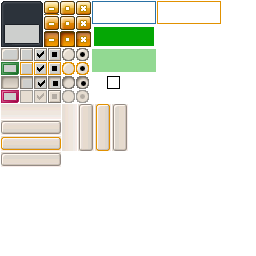
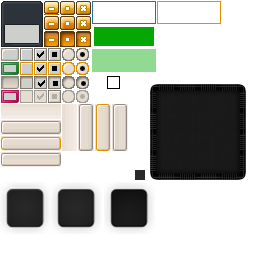
- 1.1.7 release, work on the flexible interface

Changed region(s): [[0.4062, 0.3125, 0.9688, 0.9062], [0.0, 0.7188, 0.1875, 0.9062], [0.2188, 0.7188, 0.375, 0.9062]]

diff --git a/Utopia/Utopia/GUI/Inventory/ContainerWindow.cs b/Utopia/Utopia/GUI/Inventory/ContainerWindow.cs
@@ -1,0 +1,209 @@
+using System;
+using System.Collections.Generic;
+using System.Drawing;
+using System.Linq;
+using System.Text;
+using S33M3CoreComponents.GUI.Nuclex;
+using S33M3CoreComponents.GUI.Nuclex.Controls.Desktop;
+using S33M3CoreComponents.Inputs;
+using S33M3Resources.Structs;
+using Utopia.Entities;
+using Utopia.Entities.Managers;
+using Utopia.Resources.Effects.Entities;
+using Utopia.Shared.Configuration;
+using Utopia.Shared.Entities;
+using Utopia.Shared.Entities.Concrete;
+using Utopia.Shared.Entities.Dynamic;
+using Utopia.Shared.Entities.Interfaces;
+using Utopia.Shared.Entities.Inventory;
+using RectangleF = S33M3CoreComponents.GUI.Nuclex.RectangleF;
+
+namespace Utopia.GUI.Inventory
+{
+    public class ContainerWindow : InventoryWindow
+    {
+        private readonly WorldConfiguration _conf;
+        private readonly PlayerEntityManager _player;
+        private readonly IconFactory _iconFactory;
+        private readonly InputsManager _inputsManager;
+        private readonly Container _container;
+
+        protected ListControl _recipesList;
+        protected List<InventoryCell> _ingredientCells;
+        protected ModelControl _hostModel;
+        protected ModelControl _resultModel;
+        protected ButtonControl _craftButton;
+        protected RectangleF _ingredientsRect;
+        private bool _canCraft;
+
+        public ListControl RecipesList
+        {
+            get { return _recipesList; }
+        }
+
+        public ButtonControl CraftButton
+        {
+            get { return _craftButton; }
+        }
+
+        public bool CanCraft
+        {
+            get { return _canCraft; }
+        }
+
+        public PlayerCharacter Player
+        {
+            get { return _player.PlayerCharacter; }
+        }
+
+        public HLSLVoxelModel VoxelEffect
+        {
+            get { return _resultModel.VoxelEffect; }
+            set { 
+                _resultModel.VoxelEffect = value;
+                _hostModel.VoxelEffect = value;
+            }
+        }
+
+        public ModelControl HostModelControl
+        {
+            get { return _hostModel; }
+        }
+
+        public ModelControl ResultModelControl
+        {
+            get { return _resultModel; }
+        }
+
+        public ContainerWindow(WorldConfiguration conf, PlayerEntityManager player, IconFactory iconFactory, InputsManager inputsManager, Container container) : 
+            base(container.Content, iconFactory, new Point(20, 300), inputsManager)
+        {
+            _conf = conf;
+            _player = player;
+            _iconFactory = iconFactory;
+            _inputsManager = inputsManager;
+            _container = container;
+        }
+
+        public virtual void InitializeComponent()
+        {
+            Children.Clear();
+            
+            _recipesList = new ListControl { SelectionMode = ListSelectionMode.Single };
+            _recipesList.Bounds = new UniRectangle(250, 250, 200, 100);
+            _recipesList.SelectionChanged += RecipesListOnSelectionChanged;
+            
+            foreach (var recipe in _conf.Recipes.Where(r => r.ContainerBlueprintId == _container.BluePrintId))
+            {
+                _recipesList.Items.Add(recipe);
+            }
+
+            _hostModel = new ModelControl(_iconFactory.VoxelModelManager)
+            {
+                Bounds = new UniRectangle(20, 20, 430, 230)
+            };
+
+            Children.Add(_hostModel);
+
+            _hostModel.SetModel(_container.ModelName);
+
+            if (_recipesList.Items.Count > 0)
+            {
+                Children.Add(_recipesList);
+
+                // craft button
+
+                const int buttonWidth = 212;
+                const int buttomHeight = 40;
+
+                _craftButton = new ButtonControl
+                {
+                    Text = "Craft",
+                    Bounds = new UniRectangle(340, 300, buttonWidth, buttomHeight)
+                };
+
+                Children.Add(_craftButton);
+
+                _resultModel = new ModelControl(_iconFactory.VoxelModelManager)
+                {
+                    Bounds = new UniRectangle(230, 20, 230, 230)
+                };
+
+                _hostModel.Bounds.Size.X = 200;
+
+                Children.Add(_resultModel);
+
+                _ingredientsRect = new RectangleF(450, 20, 360, 42);
+
+                _ingredientCells = new List<InventoryCell>();
+                for (int i = 0; i < 6; i++)
+                {
+                    var cell = new InventoryCell(null, _iconFactory, new Vector2I(), _inputsManager)
+                    {
+                        DrawIconsGroupId = 5,
+                        DrawIconsActiveCellId = 6,
+                        IsVisible = false
+                    };
+
+                    _ingredientCells.Add(cell);
+                    Children.Add(cell);
+                }
+            }
+        }
+
+        public void Update()
+        {
+            RecipesListOnSelectionChanged(null, null);
+        }
+
+        private void RecipesListOnSelectionChanged(object sender, EventArgs eventArgs)
+        {
+            if (_recipesList.SelectedItem == null)
+                return;
+
+            var recipe = (Recipe)_recipesList.SelectedItem;
+
+            var bp = _conf.BluePrints[recipe.ResultBlueprintId];
+
+            var voxelEntity = bp as IVoxelEntity;
+
+            if (voxelEntity != null)
+            {
+                _resultModel.SetModel(voxelEntity.ModelName);
+            }
+
+            // show ingredients slots
+            // and position it in the center of the ingredients rect
+
+            _canCraft = true;
+
+
+            for (var i = 0; i < _ingredientCells.Count; i++)
+            {
+                var cell = _ingredientCells[i];
+                cell.IsVisible = i < recipe.Ingredients.Count;
+
+                if (cell.IsVisible)
+                {
+                    var bpId = recipe.Ingredients[i].BlueprintId;
+
+                    var needItems = recipe.Ingredients[i].Count;
+                    var haveItems = _container.Content.Where(s => s.Item.BluePrintId == bpId).Sum(s => s.ItemsCount);
+
+                    if (haveItems < needItems)
+                        _canCraft = false;
+
+                    cell.Slot = new ContainedSlot
+                    {
+                        Item = (IItem)_player.PlayerCharacter.EntityFactory.CreateFromBluePrint(bpId)
+                    };
+
+                    cell.CountString = string.Format("{0} / {1}", needItems, haveItems);
+
+                    var offsetX = (_ingredientsRect.Width - recipe.Ingredients.Count * 50) / 2;
+                    cell.Bounds = new UniRectangle(_ingredientsRect.X + offsetX + i * 50, _ingredientsRect.Y, 42, 42);
+                }
+            }
+        }
+    }
+}

diff --git a/Utopia/Utopia.Shared/Entities/EntityFactory.cs b/Utopia/Utopia.Shared/Entities/EntityFactory.cs
@@ -30,6 +30,8 @@ namespace Utopia.Shared.Entities
     /// </summary>
     public class EntityFactory
     {
+        private static NLog.Logger logger = NLog.LogManager.GetCurrentClassLogger();
+
         public WorldConfiguration Config { get; set; }
 
         /// <summary>
@@ -311,8 +313,15 @@ namespace Utopia.Shared.Entities
 
                 foreach (var blueprintSlot in set)
                 {
-                    var item = (Item)CreateFromBluePrint(blueprintSlot.BlueprintId);
-                    container.PutItem(item, blueprintSlot.GridPosition, blueprintSlot.ItemsCount);
+                    try
+                    {
+                        var item = (Item)CreateFromBluePrint(blueprintSlot.BlueprintId);
+                        container.PutItem(item, blueprintSlot.GridPosition, blueprintSlot.ItemsCount);
+                    }
+                    catch (Exception x)
+                    {
+                        logger.Error("Unable to create the item from blueprint {0}: {1}", blueprintSlot.BlueprintId, x.Message);
+                    }
                 }
             }
         }

diff --git a/Utopia/Utopia/GUI/ModelControlRenderer.cs b/Utopia/Utopia/GUI/ModelControlRenderer.cs
@@ -1,16 +1,12 @@
 using System;
 using S33M3CoreComponents.GUI.Nuclex.Visuals.Flat.Interfaces;
 using S33M3CoreComponents.Maths;
-using S33M3CoreComponents.Sprites2D;
-using S33M3CoreComponents.Textures;
 using S33M3DXEngine.RenderStates;
 using S33M3Resources.Structs;
 using SharpDX;
-using SharpDX.DXGI;
-using SharpDX.Direct3D11;
 using Utopia.Shared.GameDXStates;
 
-namespace Utopia.GUI.Crafting
+namespace Utopia.GUI
 {
     public class ModelControlRenderer : IFlatControlRenderer<ModelControl>
     {

diff --git a/Utopia/Realms/Realms.Client/Properties/AssemblyInfo.cs b/Utopia/Realms/Realms.Client/Properties/AssemblyInfo.cs
@@ -32,5 +32,5 @@ using System.Runtime.InteropServices;
 // You can specify all the values or you can default the Build and Revision Numbers 
 // by using the '*' as shown below:
 // [assembly: AssemblyVersion("1.0.*")]
-[assembly: AssemblyVersion("1.1.6.6")]
-[assembly: AssemblyFileVersion("1.1.6.6")]
+[assembly: AssemblyVersion("1.1.7.7")]
+[assembly: AssemblyFileVersion("1.1.7.7")]

diff --git a/Utopia/Utopia/GUI/ModelControl.cs b/Utopia/Utopia/GUI/ModelControl.cs
@@ -1,12 +1,11 @@
 using S33M3CoreComponents.GUI.Nuclex.Controls;
 using S33M3CoreComponents.Maths;
-using S33M3CoreComponents.Sprites2D;
 using SharpDX;
 using Utopia.Entities.Voxel;
 using Utopia.Resources.Effects.Entities;
 using Utopia.Shared.Entities.Models;
 
-namespace Utopia.GUI.Crafting
+namespace Utopia.GUI
 {
     /// <summary>
     /// Shows a 3d model and allows to rotate

diff --git a/Utopia/Utopia.Shared/Net/Connections/ServerConnection.cs b/Utopia/Utopia.Shared/Net/Connections/ServerConnection.cs
@@ -17,7 +17,7 @@ namespace Utopia.Shared.Net.Connections
         /// <summary>
         /// Modify this constant to actual value
         /// </summary>
-        public const int ProtocolVersion = 7;
+        public const int ProtocolVersion = 8;
 
         /// <summary>
         /// Gets or sets current client version
